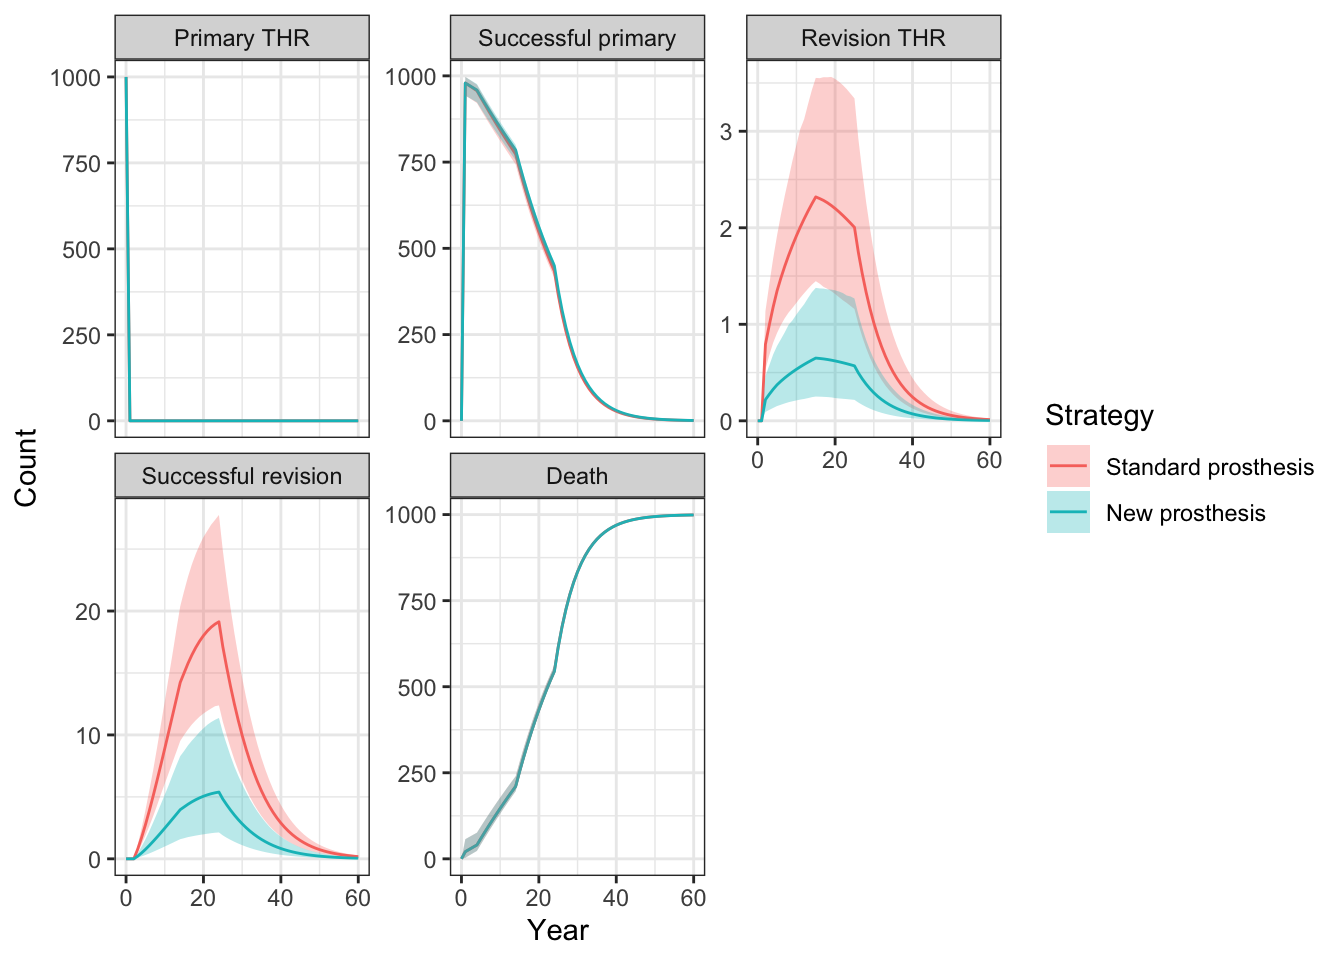
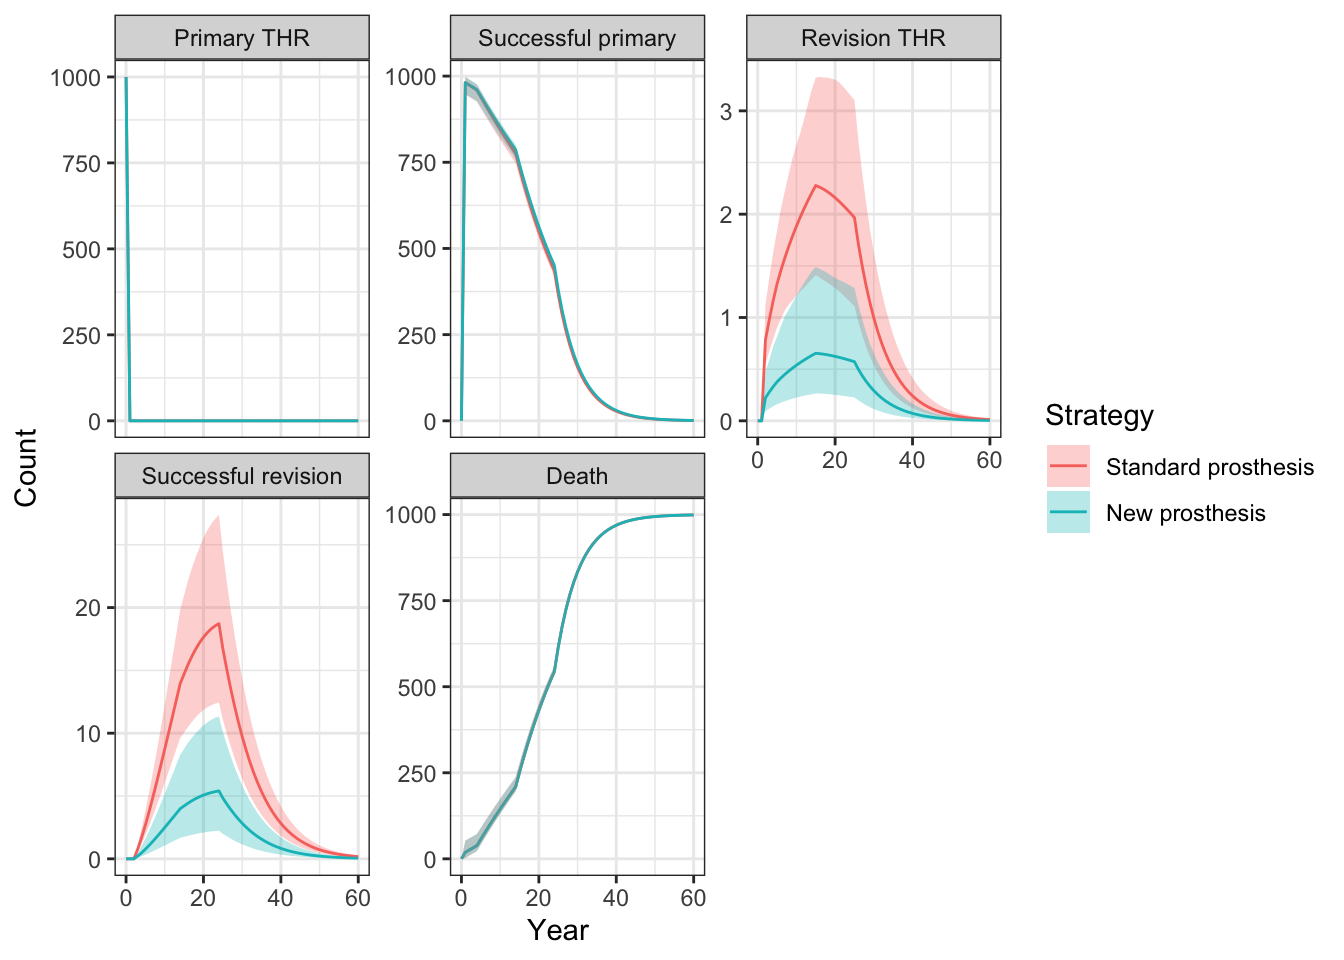
Minor tweaks to subgroup vignette. Reduce PSA iterations for machines with less RAM + fix typo

diff --git a/docs/dev/articles/subgroup.html b/docs/dev/articles/subgroup.html
@@ -104,7 +104,7 @@
     <div class="page-header toc-ignore">
       <h1>Subgroup analyses</h1>
             
-            <h4 class="date">2020-01-18</h4>
+            <h4 class="date">2020-01-19</h4>
       
       <small class="dont-index">Source: <a href="https://github.com/hesim-dev/hesim/blob/master/vignettes/subgroup.Rmd"><code>vignettes/subgroup.Rmd</code></a></small>
       <div class="hidden name"><code>subgroup.Rmd</code></div>
@@ -405,7 +405,7 @@ S(t) = \exp(-\lambda t^\gamma) \\
 <div id="random-number-generation" class="section level2">
 <h2 class="hasAnchor">
 <a href="#random-number-generation" class="anchor"></a><span class="header-section-number">2.3</span> Random number generation</h2>
-<p>As noted above, <em>omrPTHR</em>, <em>omrRTHR</em>, and <em>rrr</em> are drawn from beta distributions whith <span class="math inline">\(\alpha\)</span> and <span class="math inline">\(\beta\)</span> (i.e. <code>shape1</code> and <code>shape2</code>) specified. Similarly, utility is drawn from a beta distribution, but <code>shape1</code> and <code>shape2</code> are derived from the mean and standard error using the method of moments. The mortality rate and the cost of the prostheses are assumed to be known with certainty. The medical costs associated with health states are drawn from a gamma distribution, for which, like utility, the underlying parameters are derived from the mean and standard error using the method of moments. Finally, the parameters of the Weibull survival model are drawn from a multivariate normal distribution using the point estimates and the variance-covariance matrix. 1,000 samples will be drawn for the PSA.</p>
+<p>As noted above, <em>omrPTHR</em>, <em>omrRTHR</em>, and <em>rrr</em> are drawn from beta distributions whith <span class="math inline">\(\alpha\)</span> and <span class="math inline">\(\beta\)</span> (i.e. <code>shape1</code> and <code>shape2</code>) specified. Similarly, utility is drawn from a beta distribution, but <code>shape1</code> and <code>shape2</code> are derived from the mean and standard error using the method of moments. The mortality rate and the cost of the prostheses are assumed to be known with certainty. The medical costs associated with health states are drawn from a gamma distribution, for which, like utility, the underlying parameters are derived from the mean and standard error using the method of moments. Finally, the parameters of the Weibull survival model are drawn from a multivariate normal distribution using the point estimates and the variance-covariance matrix. 500 samples will be drawn for the PSA.</p>
 <div class="sourceCode" id="cb12"><pre class="sourceCode r"><code class="sourceCode r"><span id="cb12-1"><a href="#cb12-1"></a>rng_def &lt;-<span class="st"> </span><span class="kw"><a href="../reference/define_rng.html">define_rng</a></span>({</span>
 <span id="cb12-2"><a href="#cb12-2"></a>  <span class="kw"><a href="https://www.rdocumentation.org/packages/base/topics/list">list</a></span>( </span>
 <span id="cb12-3"><a href="#cb12-3"></a>    <span class="dt">omrPTHR =</span> <span class="kw"><a href="../reference/rng_distributions.html">beta_rng</a></span>(<span class="dt">shape1 =</span> omrPTHR_shape1, <span class="dt">shape2 =</span> omrPTHR_shape2),</span>
@@ -419,7 +419,7 @@ S(t) = \exp(-\lambda t^\gamma) \\
 <span id="cb12-11"><a href="#cb12-11"></a>    <span class="dt">c_Standard =</span> c_Standard,</span>
 <span id="cb12-12"><a href="#cb12-12"></a>    <span class="dt">c_NP1 =</span> c_NP1</span>
 <span id="cb12-13"><a href="#cb12-13"></a>  )</span>
-<span id="cb12-14"><a href="#cb12-14"></a>}, <span class="dt">n =</span> <span class="dv">1000</span>)</span></code></pre></div>
+<span id="cb12-14"><a href="#cb12-14"></a>}, <span class="dt">n =</span> <span class="dv">500</span>)</span></code></pre></div>
 </div>
 <div id="transformed-parameters" class="section level2">
 <h2 class="hasAnchor">
@@ -525,38 +525,38 @@ S(t) = \exp(-\lambda t^\gamma) \\
 <span id="cb18-7"><a href="#cb18-7"></a>              .(<span class="dt">mean =</span> <span class="kw"><a href="https://www.rdocumentation.org/packages/base/topics/mean">mean</a></span>(qalys)),</span>
 <span id="cb18-8"><a href="#cb18-8"></a>                by =<span class="st"> </span><span class="kw"><a href="https://www.rdocumentation.org/packages/base/topics/c">c</a></span>(<span class="st">"strategy_id"</span>, <span class="st">"grp_id"</span>)]</span></code></pre></div>
 <pre><code>##    strategy_id grp_id     mean
-## 1:           1      2 14.60750
-## 2:           2      2 14.65154</code></pre>
+## 1:           1      2 14.67414
+## 2:           2      2 14.71791</code></pre>
 <div class="sourceCode" id="cb20"><pre class="sourceCode r"><code class="sourceCode r"><span id="cb20-1"><a href="#cb20-1"></a>ce_sim<span class="op">$</span>costs[grp_id <span class="op">==</span><span class="st"> </span><span class="dv">2</span> <span class="op">&amp;</span><span class="st"> </span>category <span class="op">==</span><span class="st"> "total"</span>, </span>
 <span id="cb20-2"><a href="#cb20-2"></a>            .(<span class="dt">mean =</span> <span class="kw"><a href="https://www.rdocumentation.org/packages/base/topics/mean">mean</a></span>(costs)),</span>
 <span id="cb20-3"><a href="#cb20-3"></a>              by =<span class="st"> </span><span class="kw"><a href="https://www.rdocumentation.org/packages/base/topics/c">c</a></span>(<span class="st">"strategy_id"</span>, <span class="st">"grp_id"</span>)]</span></code></pre></div>
 <pre><code>##    strategy_id grp_id     mean
-## 1:           1      2 512.1091
-## 2:           2      2 612.0980</code></pre>
+## 1:           1      2 508.5855
+## 2:           2      2 612.0908</code></pre>
 <p>We can then compute incremental cost-effectiveness ratios for each subgroup. There is considerable variation which is not unexpected since the the revision rate for prostheses (<em>rr</em>) depends on covariates.</p>
 <div class="sourceCode" id="cb22"><pre class="sourceCode r"><code class="sourceCode r"><span id="cb22-1"><a href="#cb22-1"></a><span class="kw"><a href="../reference/icer_tbl.html">icer_tbl</a></span>(icea_pw_out, <span class="dt">output =</span> <span class="st">"data.table"</span>)</span></code></pre></div>
-<pre><code>##     strategy_id grp_id            iqalys         icosts
-##  1:           2      1 0.07 (0.03, 0.13)  67 (-49, 138)
-##  2:           2      2 0.04 (0.02, 0.08)  100 (15, 152)
-##  3:           2      3 0.03 (0.01, 0.05)  126 (65, 162)
-##  4:           2      4 0.02 (0.01, 0.03) 145 (104, 170)
-##  5:           2      5 0.01 (0.00, 0.02) 159 (131, 176)
-##  6:           2      6 0.11 (0.04, 0.20) -29 (-235, 96)
-##  7:           2      7 0.07 (0.03, 0.12) 34 (-117, 123)
-##  8:           2      8 0.04 (0.02, 0.07)  82 (-26, 144)
-##  9:           2      9 0.02 (0.01, 0.04)  116 (45, 159)
-## 10:           2     10 0.01 (0.01, 0.02)  141 (94, 169)
+<pre><code>##     strategy_id grp_id            iqalys          icosts
+##  1:           2      1 0.07 (0.03, 0.13)   72 (-34, 143)
+##  2:           2      2 0.04 (0.02, 0.08)   104 (28, 155)
+##  3:           2      3 0.03 (0.01, 0.05)   128 (72, 164)
+##  4:           2      4 0.02 (0.01, 0.03)  147 (106, 171)
+##  5:           2      5 0.01 (0.00, 0.02)  161 (133, 176)
+##  6:           2      6 0.11 (0.04, 0.20) -22 (-227, 108)
+##  7:           2      7 0.07 (0.03, 0.12)  39 (-115, 131)
+##  8:           2      8 0.04 (0.02, 0.07)   85 (-22, 148)
+##  9:           2      9 0.02 (0.01, 0.04)   119 (47, 161)
+## 10:           2     10 0.01 (0.01, 0.02)   143 (95, 171)
 ##                      inmb      icer     conclusion
-##  1:  3,489 (1,157, 6,600)       939 Cost-effective
-##  2:    2,102 (672, 3,948)     2,270 Cost-effective
-##  3:    1,191 (348, 2,350)     4,779 Cost-effective
-##  4:      615 (132, 1,299)     9,557 Cost-effective
-##  5:         269 (-8, 666)    18,582 Cost-effective
-##  6: 5,649 (2,066, 10,263) Dominates Cost-effective
-##  7:  3,383 (1,204, 6,221)       493 Cost-effective
-##  8:    1,925 (667, 3,618)     2,033 Cost-effective
-##  9:    1,028 (327, 2,005)     5,084 Cost-effective
-## 10:       499 (99, 1,051)    11,016 Cost-effective</code></pre>
+##  1:  3,471 (1,245, 6,232)     1,010 Cost-effective
+##  2:    2,085 (730, 3,905)     2,365 Cost-effective
+##  3:    1,177 (371, 2,313)     4,917 Cost-effective
+##  4:      605 (141, 1,306)     9,780 Cost-effective
+##  5:         263 (-2, 681)    18,970 Cost-effective
+##  6: 5,678 (2,131, 10,169) Dominates Cost-effective
+##  7:  3,393 (1,246, 6,120)       563 Cost-effective
+##  8:    1,926 (675, 3,538)     2,116 Cost-effective
+##  9:    1,025 (319, 1,962)     5,190 Cost-effective
+## 10:       496 (97, 1,051)    11,167 Cost-effective</code></pre>
 </div>
 <div id="overall" class="section level2">
 <h2 class="hasAnchor">
@@ -568,9 +568,9 @@ S(t) = \exp(-\lambda t^\gamma) \\
 <span id="cb24-4"><a href="#cb24-4"></a><span class="kw"><a href="../reference/icer_tbl.html">icer_tbl</a></span>(icea_pw_out)</span></code></pre></div>
 <pre><code>##                   1   2                   
 ## Incremental QALYs "-" "0.03 (0.01, 0.05)" 
-## Incremental costs "-" "118 (51, 159)"     
-## Incremental NMB   "-" "1,306 (401, 2,537)"
-## ICER              "-" "4,138"             
+## Incremental costs "-" "120 (54, 162)"     
+## Incremental NMB   "-" "1,299 (432, 2,451)"
+## ICER              "-" "4,243"             
 ## Conclusion        "-" "Cost-effective"</code></pre>
 </div>
 </div>
@@ -582,7 +582,7 @@ S(t) = \exp(-\lambda t^\gamma) \\
 \begin{align}
 tp(t_u) &amp;= \frac{1 - S(t)}{S(t-u)} \\
 &amp;= \frac{1 - exp\{-H(t)\}}{exp\{-H(t-u)\}} \\
-&amp;= 1 - exp\{-H(t-u) - H(t)\},
+&amp;= 1 - exp\{H(t-u) - H(t)\},
 \end{align}
 \]</span></p>
 <p>where <span class="math inline">\(H(t)\)</span> is the cumulative hazard function.</p>
